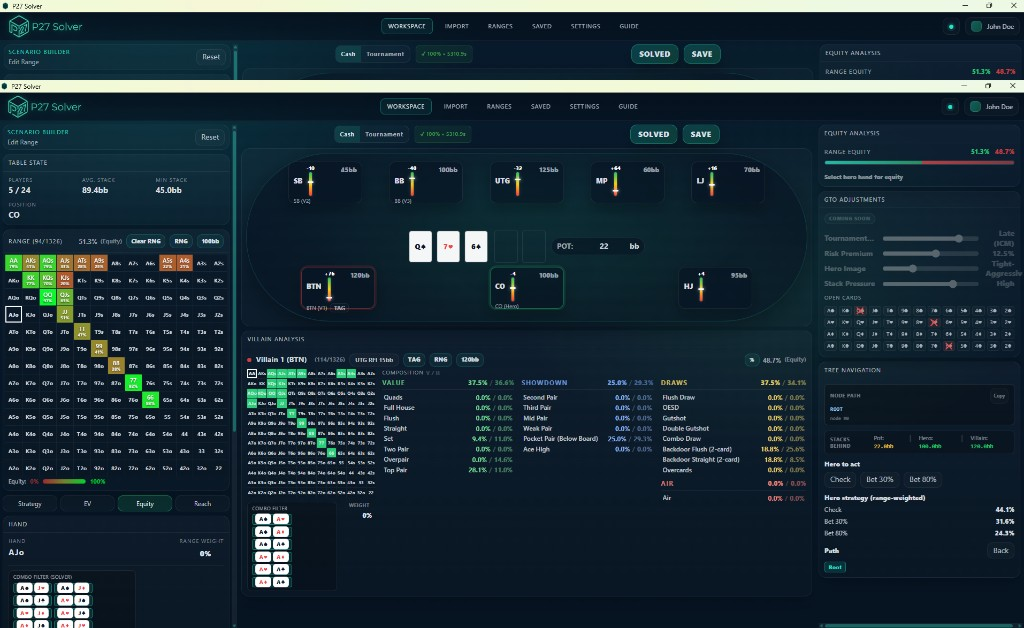
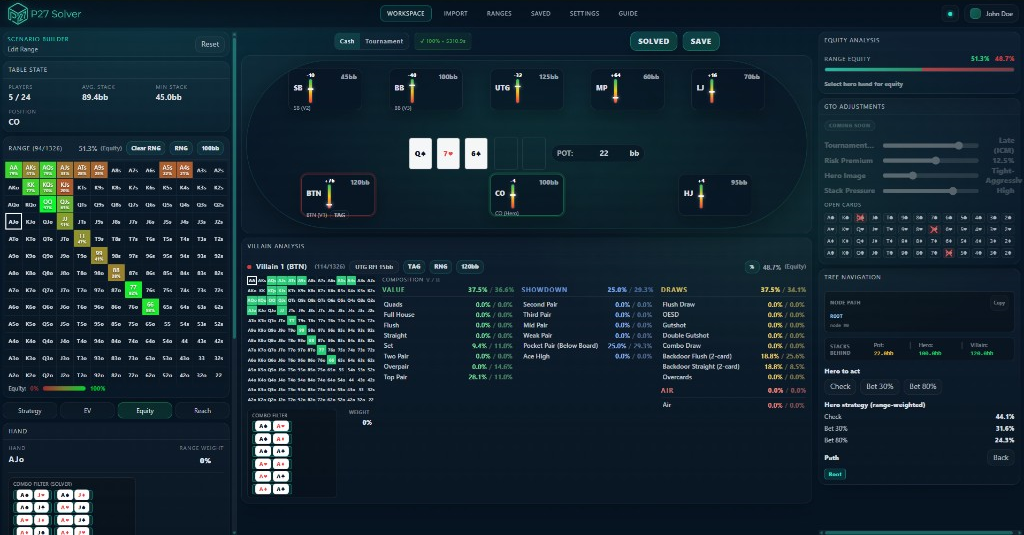
Crop double-window EV/Equity/Reach screenshots to a single frame.
Captures included a second P27 window stacked above; keep one clean workspace view.

diff --git a/src/lib/constants.ts b/src/lib/constants.ts
@@ -67,7 +67,7 @@ export const VIEW_SHOTS = [
     caption:
       "EV — after Solve FN finishes. Cell = average EV (bb) at the node; combo detail = EV by action. Colour is an EV heat scale, not the Strategy legend.",
     width: 1024,
-    height: 630,
+    height: 537,
   },
   {
     id: "equity",
@@ -76,7 +76,7 @@ export const VIEW_SHOTS = [
     caption:
       "Equity — Equity FN runs without a GTO solve. After a solve, the Equity tab also shows equity at the current node.",
     width: 1024,
-    height: 628,
+    height: 535,
   },
   {
     id: "reach",
@@ -85,7 +85,7 @@ export const VIEW_SHOTS = [
     caption:
       "Reach — toggle on the Strategy / EV / Equity row. Fraction of each combo still in play on the path. Tiny reach is height-boosted for readability; the printed % is actual reach.",
     width: 1024,
-    height: 637,
+    height: 544,
   },
 ] as const;
 
